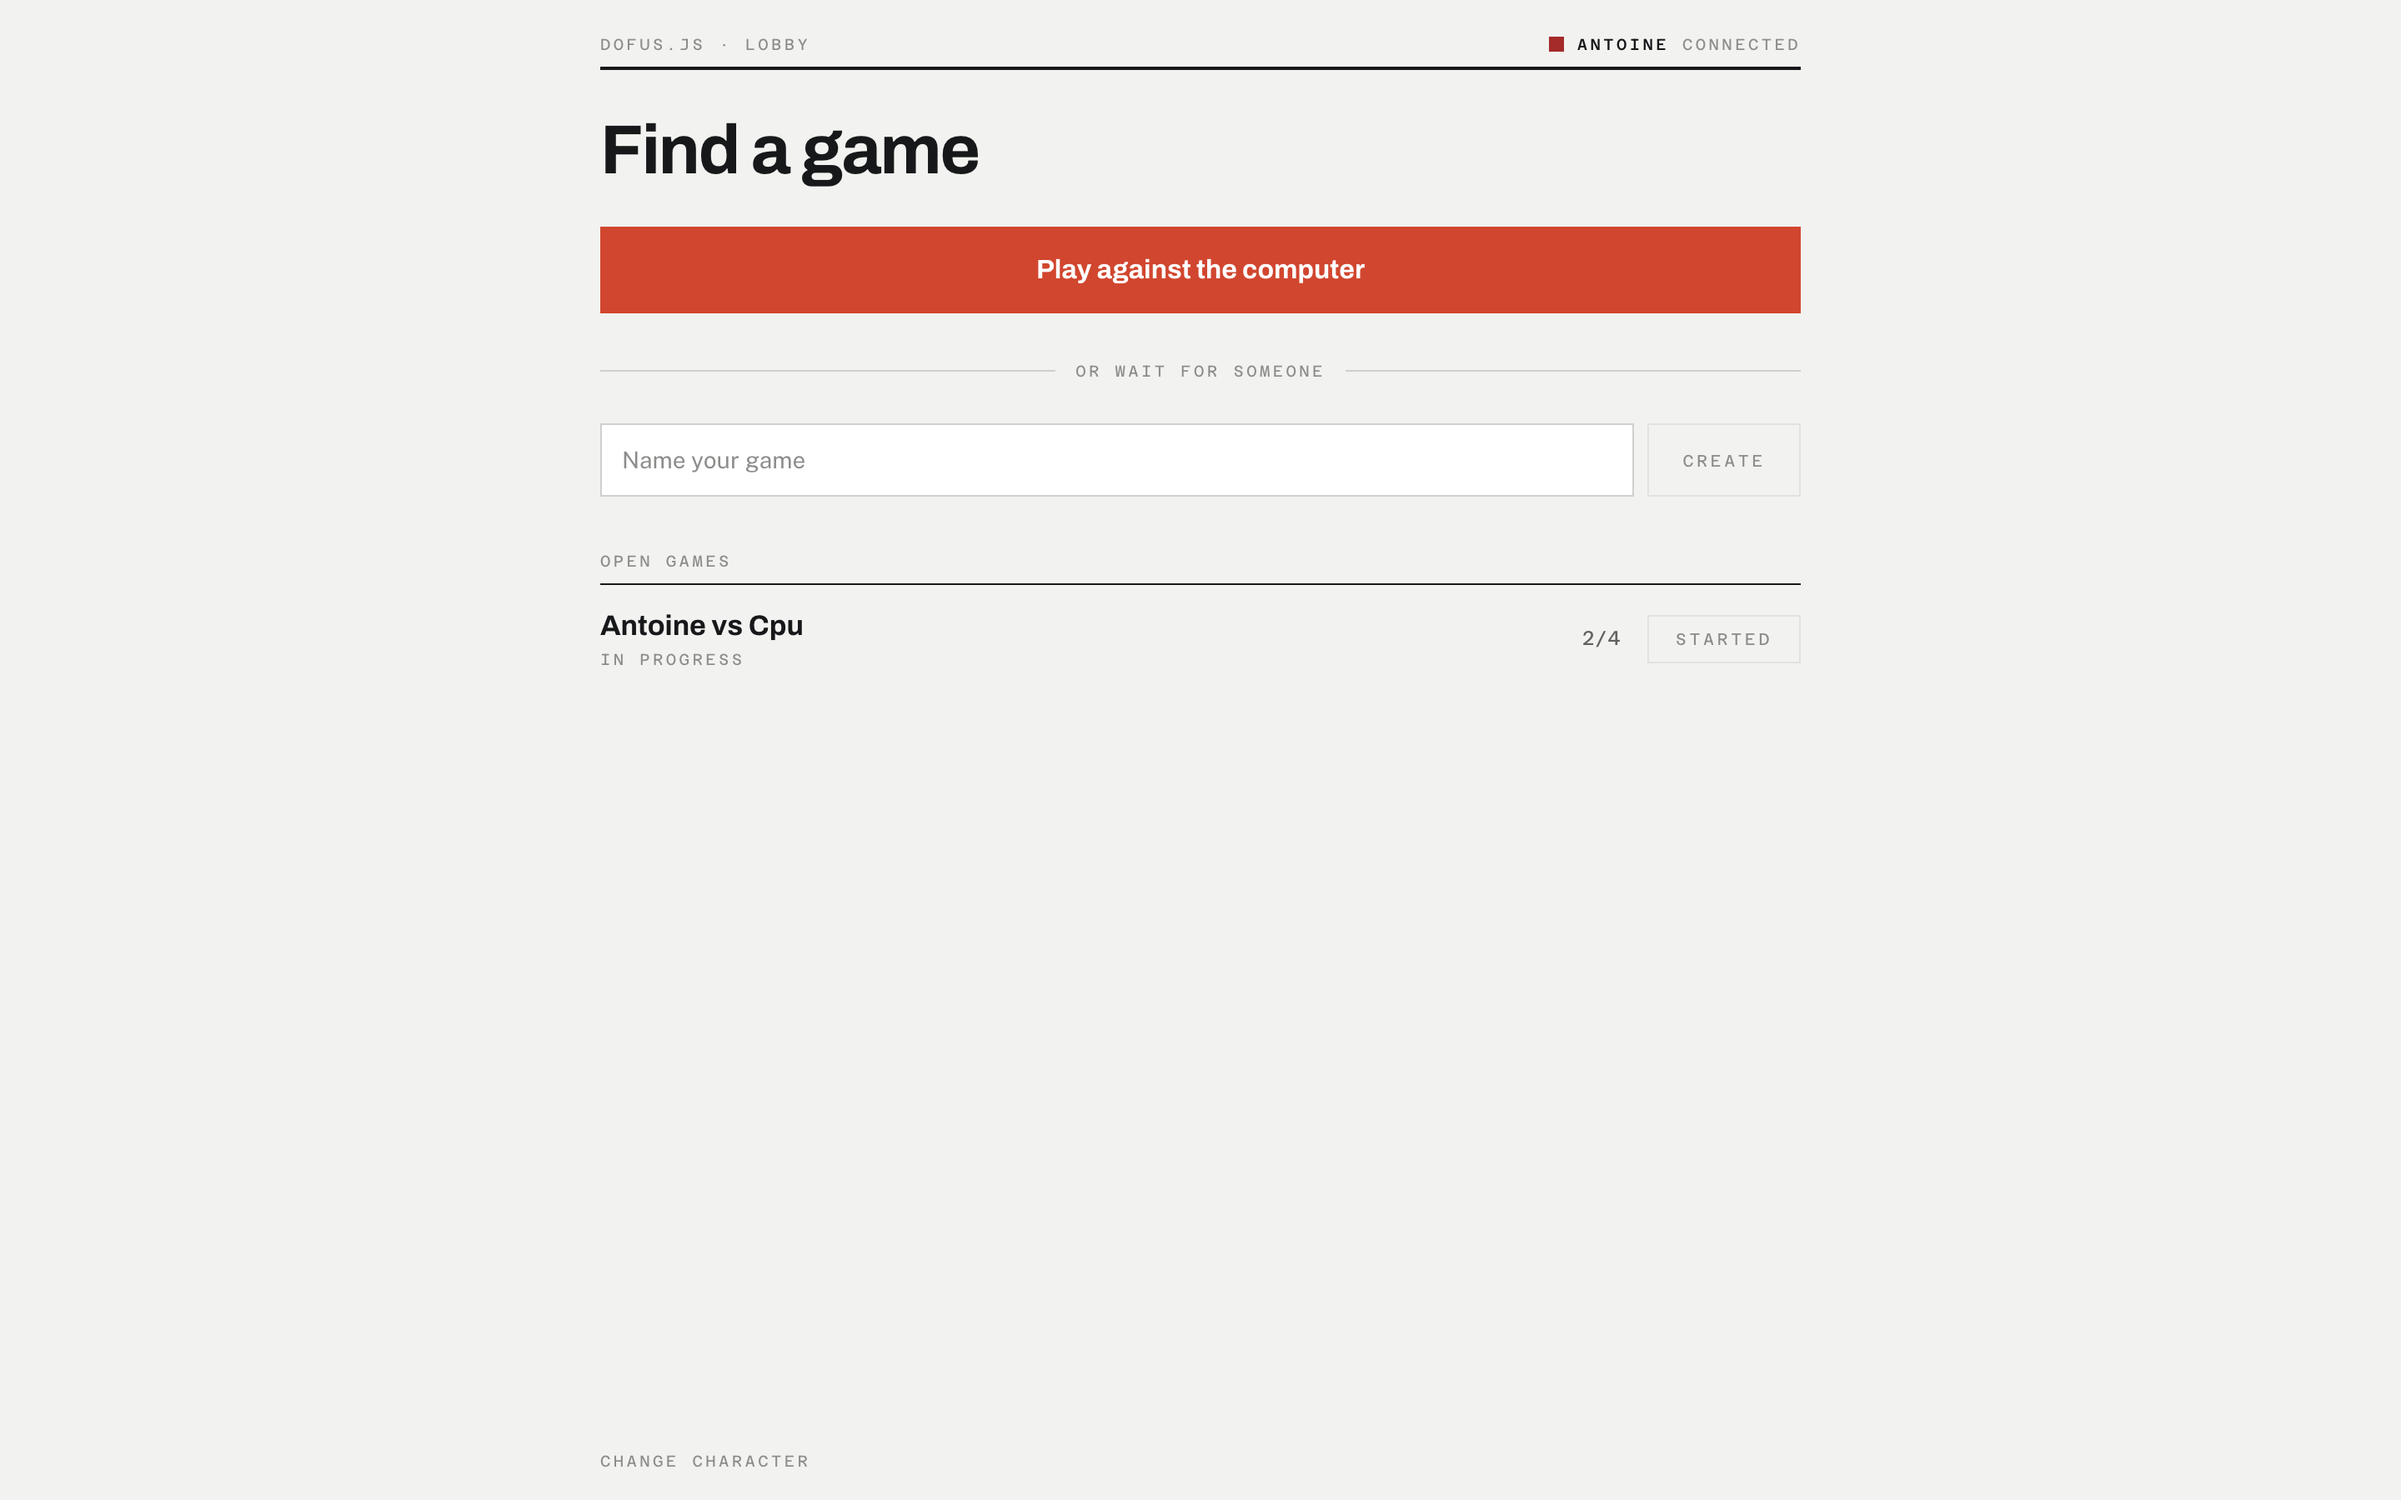
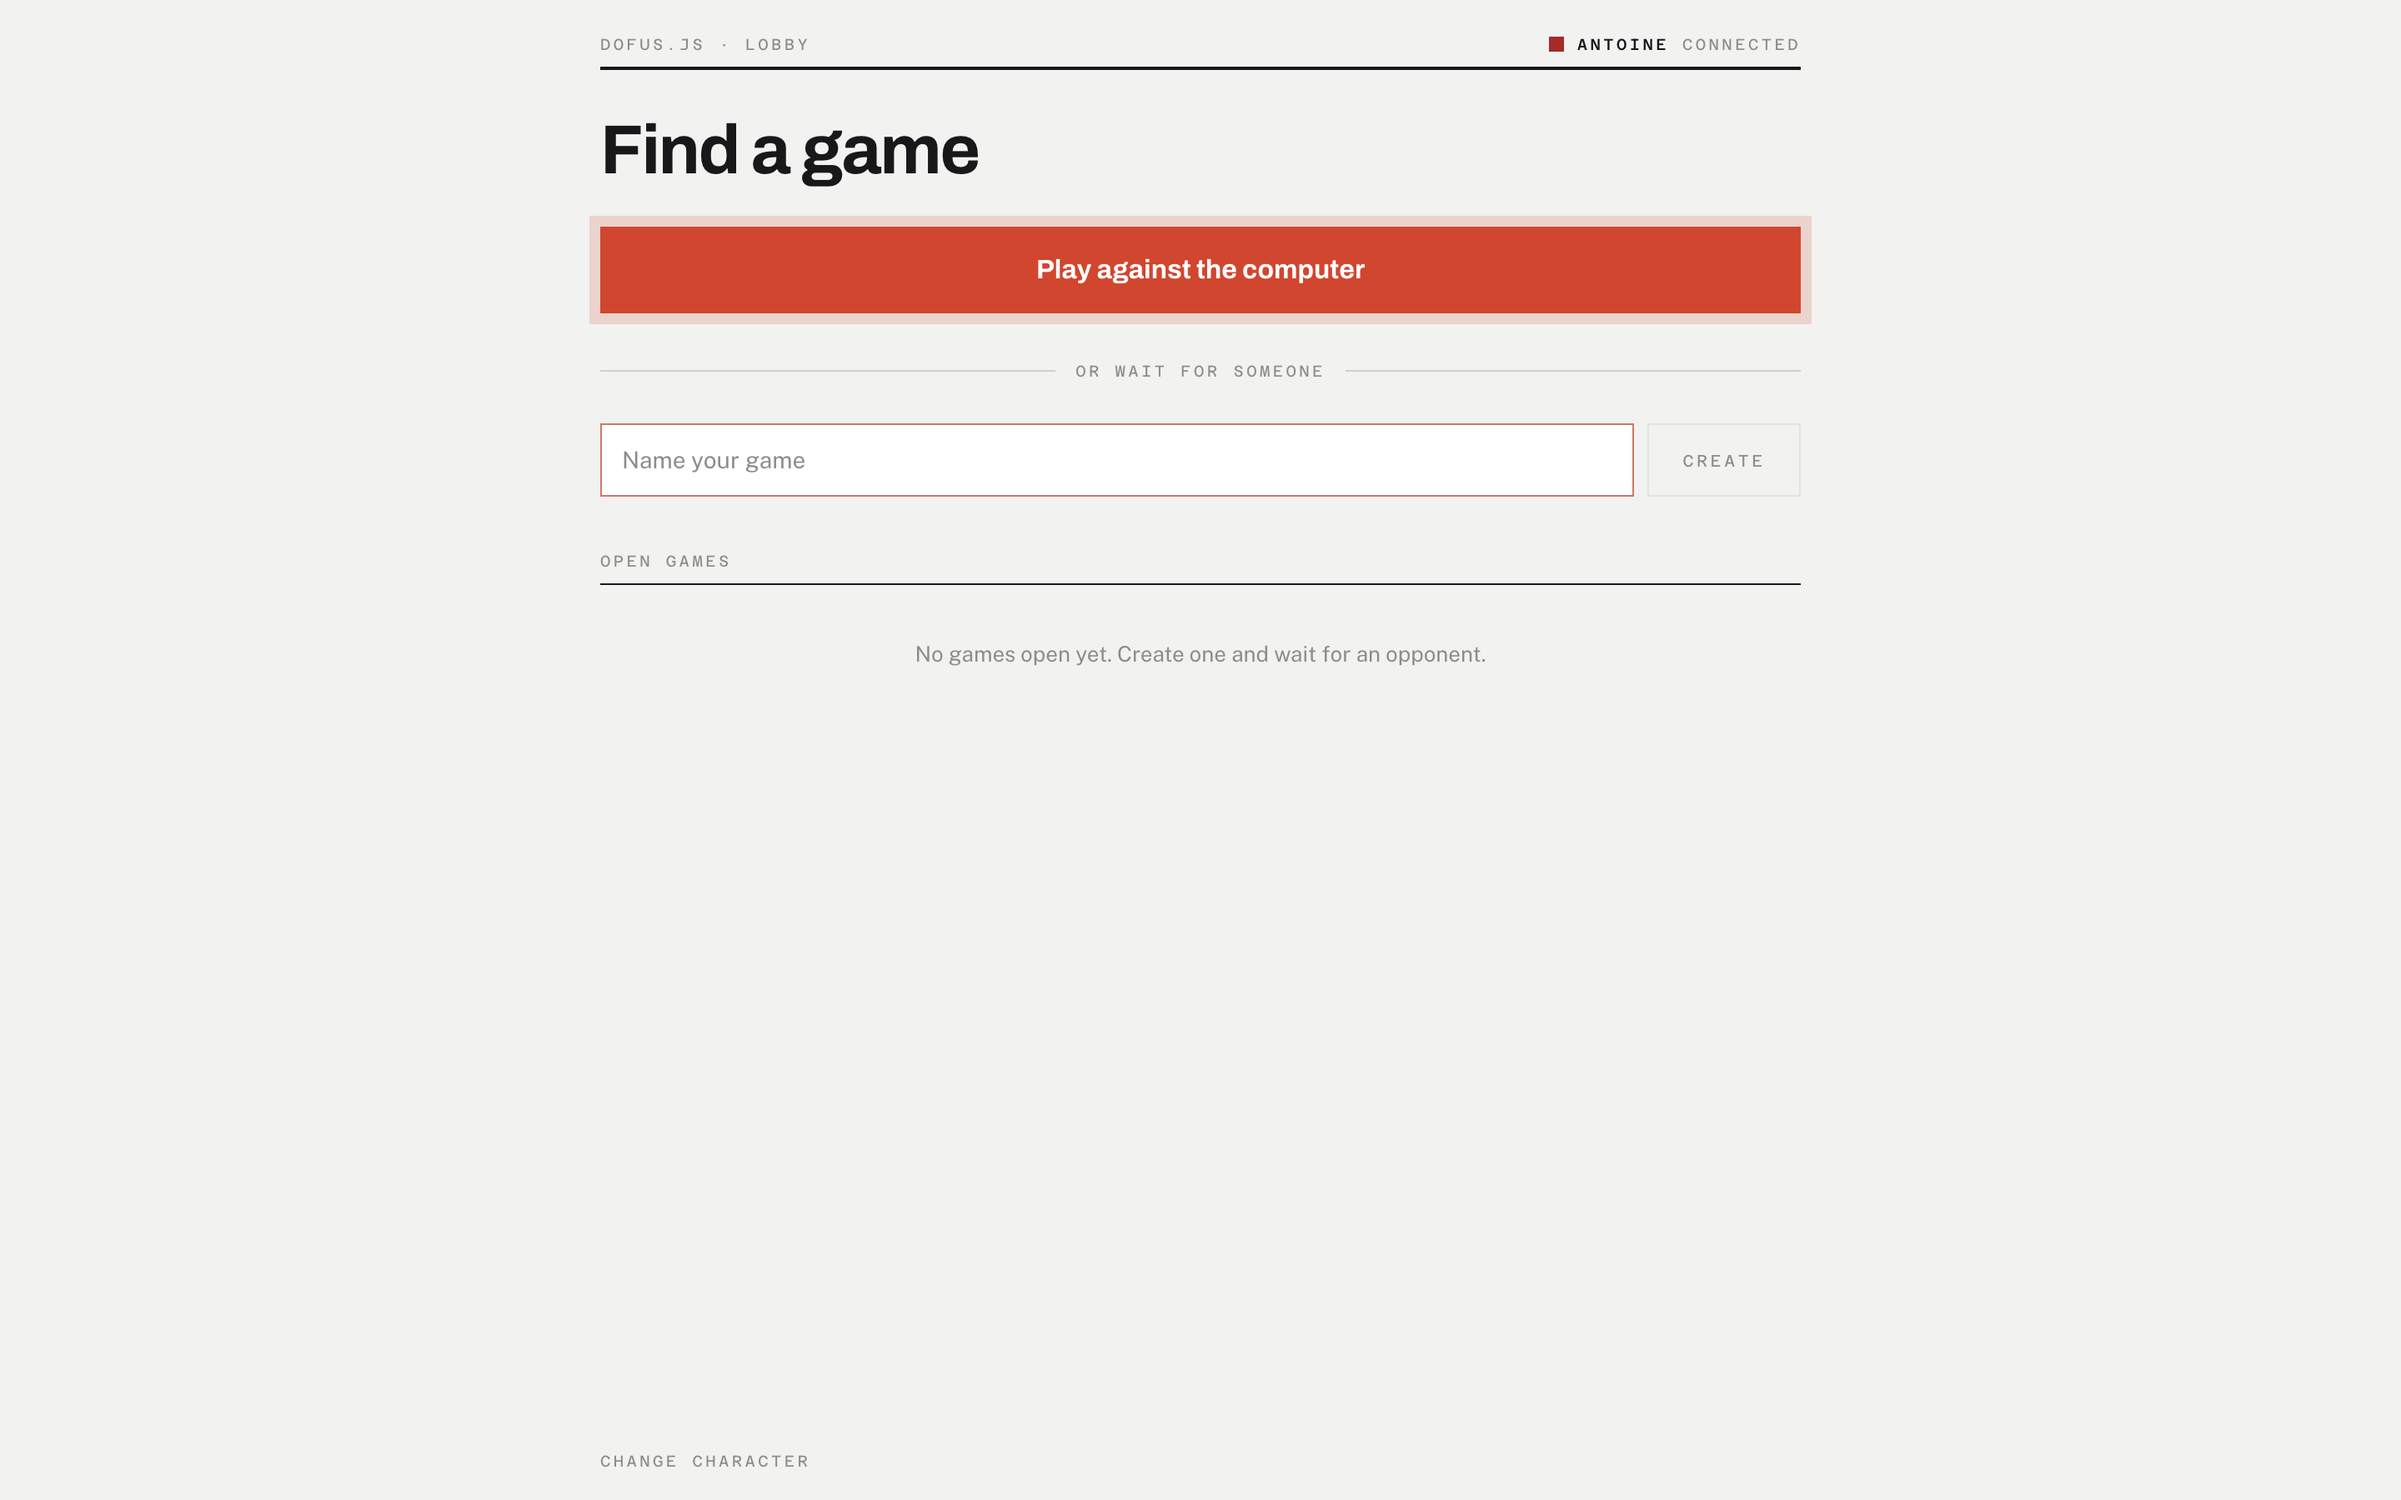
docs: reshoot the demo GIF and two screenshots for the new placement screen
Both predated everything in this branch: the placement screenshot still
showed cells scattered at random with no colour meaning anything, and
the GIF's four seconds barely covered a hover preview.

Re-recorded end to end against the real app — the dev server against the
dockerised backend, driven with Playwright rather than staged — so nothing
in it is staged more than the game itself already stages a fight: naming a
fighter, the green block breathing while it waits to be picked and the
opponent's marked off in red, the Fight button pulsing once a cell is
chosen, and a Fireball actually landing for 18. Fifteen seconds now
covers what the old four did and then some.

The lobby screenshot picked up the same two pulses in a still frame, and
happened to also fix a stale detail: it was showing "2/4" on an open
room from before a room held only a duel. The combat and phone
screenshots were unaffected by this branch and are untouched.

Changed region(s): [[0.2188, 0.1556, 0.7812, 0.2178], [0.25, 0.1244, 0.75, 0.1556], [0.25, 0.4044, 0.3438, 0.4356]]

diff --git a/README.md b/README.md
@@ -11,7 +11,7 @@ have a whole match to yourself. The server sleeps after 15 minutes on the free
 tier, so the first connection can take a minute to come back — the board loads
 instantly either way.
 
-![A turn of Dofus.js: the reachable area, the walk to a cell, and a fireball landing](docs/assets/demo.gif)
+![Naming a fighter, picking a starting cell in the green block while the opponent's is marked off in red, and a Fireball landing for 18](docs/assets/demo.gif)
 
 <table>
 <tr>
@@ -19,7 +19,7 @@ instantly either way.
 <td width="50%"><img src="docs/assets/02-lobby.png" alt="Lobby: open games and a solo match against the computer"></td>
 </tr>
 <tr>
-<td width="50%"><img src="docs/assets/03-placement.png" alt="Placement: each player picks one of three starting cells"></td>
+<td width="50%"><img src="docs/assets/03-placement.png" alt="Placement: three adjacent cells to start on, in green; the opponent's block is marked off in red"></td>
 <td width="50%"><img src="docs/assets/04-combat.png" alt="Combat: cast range outlined, area of effect marked, estimated damage above the target"></td>
 </tr>
 </table>
